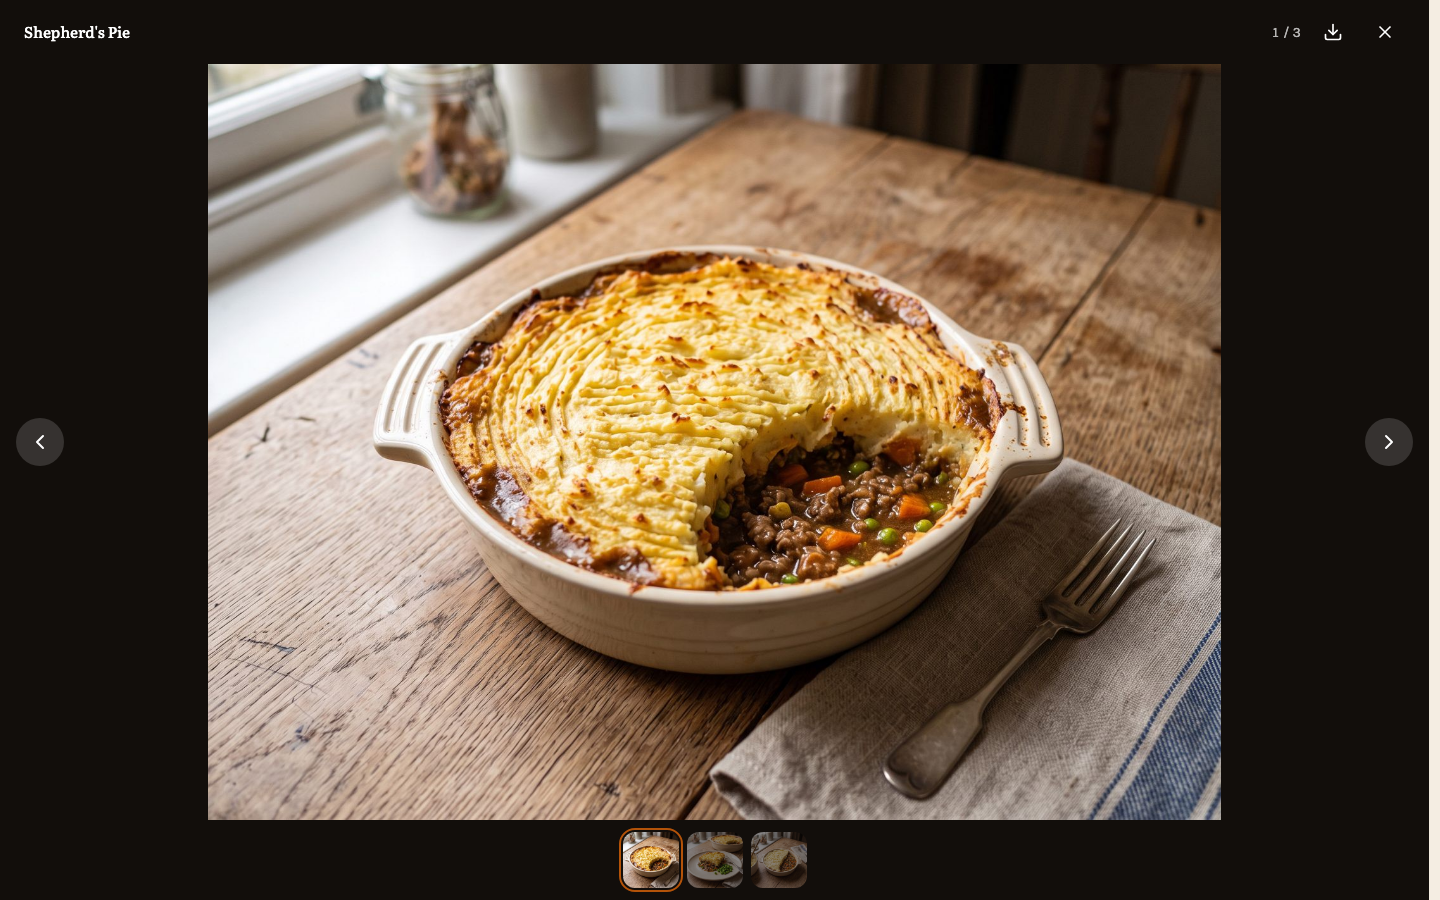
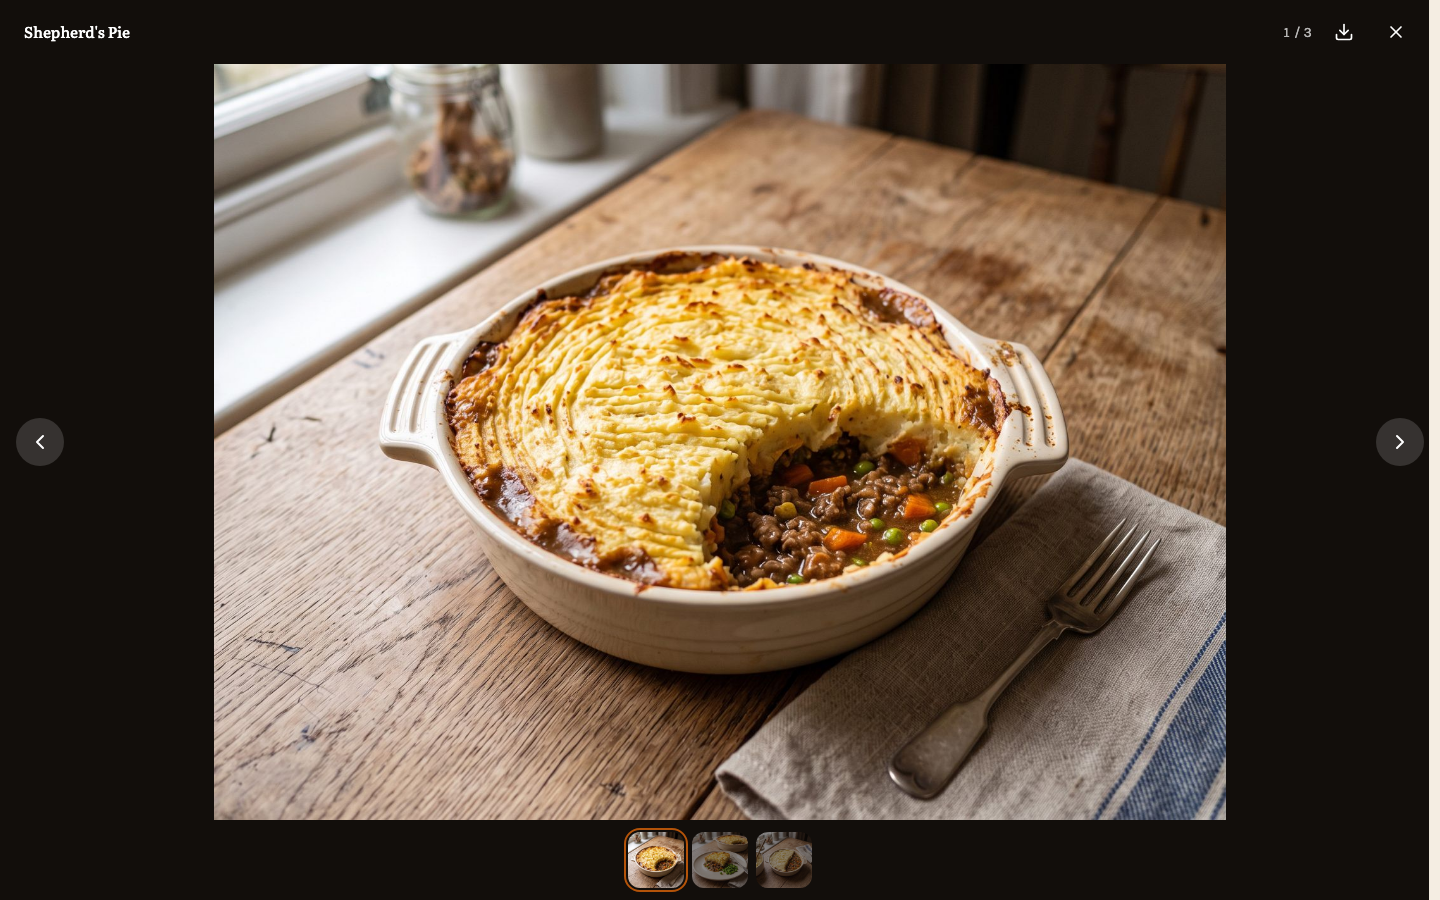
fix(frontend): let the lightbox cover the whole window

diff --git a/frontend/e2e/lightbox-window.test.ts b/frontend/e2e/lightbox-window.test.ts
@@ -1,0 +1,35 @@
+import { expect, test } from '@playwright/test';
+import { createRecipe, loadFixture, login, tinyPng, uniqueToken, uploadImage } from './helpers';
+
+// Headless Chromium hides its scrollbars; this test needs the classic ones a
+// desktop with a mouse shows, so it has a file of its own (launch options
+// cannot be set per test).
+test.use({ launchOptions: { ignoreDefaultArgs: ['--hide-scrollbars'] } });
+
+test('the lightbox covers the whole window and the page stays put', async ({ page, isMobile }) => {
+	test.skip(isMobile, 'the desktop viewport is the one that keeps a scrollbar gutter');
+	await login(page);
+	await page.setViewportSize({ width: 1280, height: 900 });
+	const recipe = await createRecipe(page, { ...loadFixture(1), title: `Cover ${uniqueToken()}` });
+	await uploadImage(page, recipe.id, tinyPng([200, 120, 40]));
+
+	await page.goto(`/recipes/${recipe.slug}`);
+	// A page that scrolls, so the scrollbar's room matters.
+	await page.addStyleTag({ content: 'body { min-height: 3000px }' });
+	const mainLeft = () => page.locator('main').evaluate((el) => el.getBoundingClientRect().left);
+	const before = await mainLeft();
+
+	await page.getByRole('button', { name: 'Open photo 1 of 1' }).click();
+	const dialog = page.getByRole('dialog');
+	await expect(dialog).toBeVisible();
+	expect(await mainLeft()).toBe(before);
+	const box = await dialog.evaluate((el) => {
+		const { left, width } = el.getBoundingClientRect();
+		return { left, width };
+	});
+	expect(box).toEqual({ left: 0, width: 1280 });
+
+	await page.keyboard.press('Escape');
+	await expect(dialog).toBeHidden();
+	expect(await mainLeft()).toBe(before);
+});

diff --git a/frontend/src/lib/components/ui/Lightbox.svelte b/frontend/src/lib/components/ui/Lightbox.svelte
@@ -38,6 +38,8 @@
 		download?: boolean;
 	} = $props();
 
+	let windowWidth = $state(0);
+
 	const count = $derived(images.length);
 	const current = $derived(images[index]);
 	const fadeDuration = $derived(prefersReducedMotion.current ? 0 : 200);
@@ -116,16 +118,22 @@
 		'inline-flex size-10 items-center justify-center rounded-full text-lightbox-foreground transition hover:bg-lightbox-foreground/15 focus-visible:outline-2 focus-visible:outline-offset-2 focus-visible:outline-primary';
 </script>
 
+<svelte:window bind:innerWidth={windowWidth} />
+
 <Dialog.Root bind:open>
 	<Dialog.Portal>
 		<!-- Scroll lock on, unlike the other dialogs: it covers the whole screen, so the page
 		     shifting under it cannot be seen, while its scrollbar and the wheel would be. -->
+		<!-- The page keeps `scrollbar-gutter: stable` under the lock, and `inset-0`, `100vw` and
+		     `100%` all stop short of that gutter; only `innerWidth` counts it. Changing the
+		     gutter instead would reflow the page under the fading overlay. -->
 		<Dialog.Content forceMount {onkeydown}>
 			{#snippet child({ props, open: isOpen })}
 				{#if isOpen && current}
 					<div
 						{...props}
-						class="fixed inset-0 z-50 flex flex-col bg-lightbox text-lightbox-foreground"
+						style:width={windowWidth ? `${windowWidth}px` : undefined}
+						class="fixed inset-y-0 left-0 z-50 flex w-screen flex-col bg-lightbox text-lightbox-foreground"
 						transition:fade={{ duration: fadeDuration }}
 					>
 						<header class="flex shrink-0 flex-wrap items-center gap-x-3 gap-y-2 px-4 py-3 md:px-6">

diff --git a/frontend/e2e/images.test.ts b/frontend/e2e/images.test.ts
@@ -67,6 +67,21 @@ test('opens the lightbox and walks through the images', async ({ page }) => {
 	await expect(dialog).toBeHidden();
 });
 
+test('the lightbox covers the whole window', async ({ page, isMobile }) => {
+	test.skip(isMobile, 'the desktop viewport is the one that keeps a scrollbar gutter');
+	await page.setViewportSize({ width: 1280, height: 900 });
+	const recipe = await createRecipe(page, { ...loadFixture(1), title: `Cover ${uniqueToken()}` });
+	await uploadImage(page, recipe.id, tinyPng([200, 120, 40]));
+
+	await page.goto(`/recipes/${recipe.slug}`);
+	await page.getByRole('button', { name: 'Open photo 1 of 1' }).click();
+	const box = await page.getByRole('dialog').evaluate((el) => {
+		const { left, width } = el.getBoundingClientRect();
+		return { left, width };
+	});
+	expect(box).toEqual({ left: 0, width: 1280 });
+});
+
 test('swipes between the lightbox images', async ({ page, isMobile }) => {
 	test.skip(!isMobile, 'pointer swipe is exercised on the mobile project only');
 	const token = uniqueToken();
